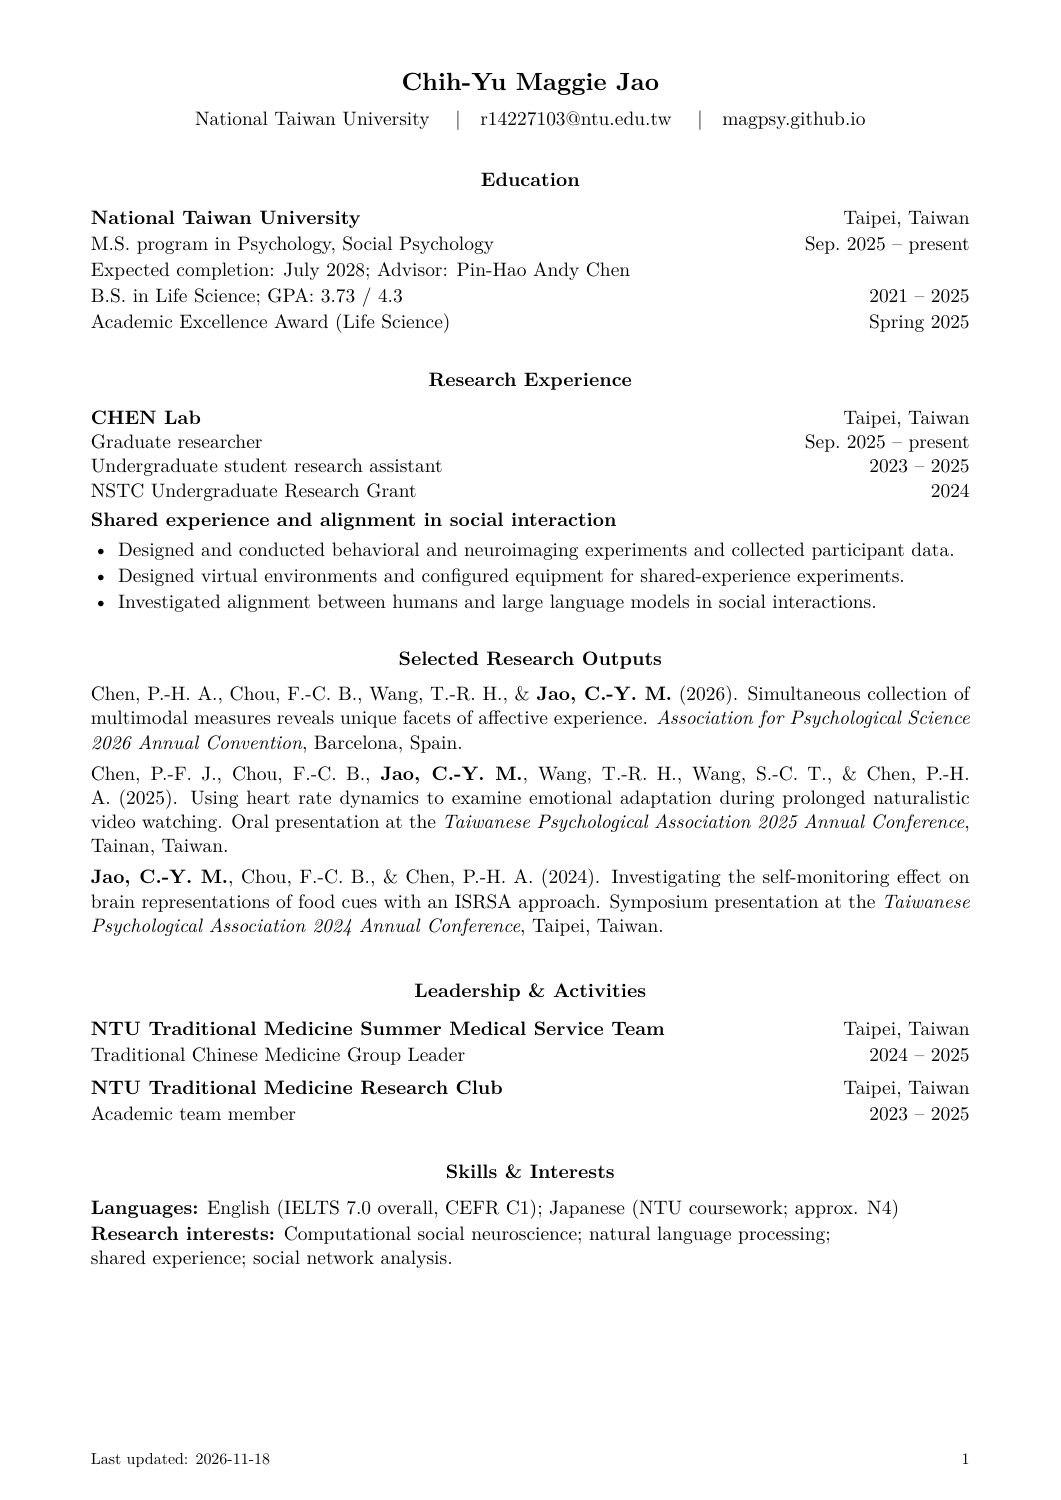
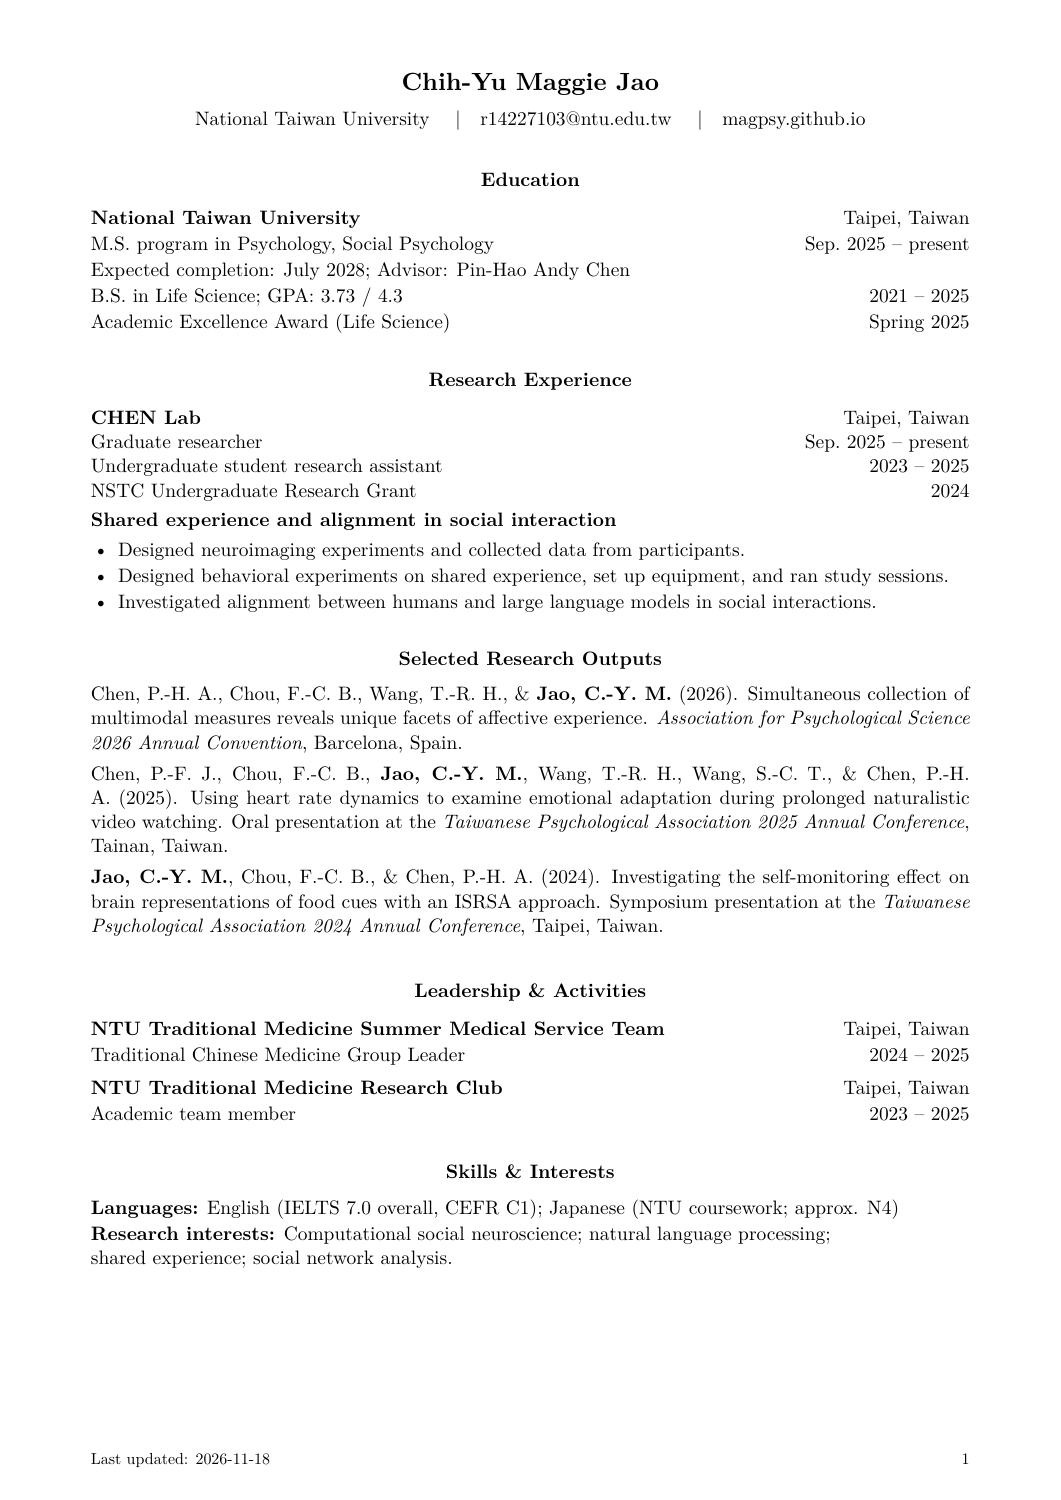
Clarify neuroimaging and behavioral research contributions

Changed region(s): [[0.1866, 0.368, 0.902, 0.3987]]

diff --git a/index.html b/index.html
@@ -20,12 +20,12 @@
   <header>
     <div class="heading">
       <h1>Chih-Yu Maggie Jao · Curriculum Vitae</h1>
-      <a href="CV-OnePage.pdf?v=f0cf153ee8d7">Open / download one-page PDF</a>
+      <a href="CV-OnePage.pdf?v=acd95fb1bbe9">Open / download one-page PDF</a>
     </div>
   </header>
   <main aria-label="Curriculum vitae of Chih-Yu Maggie Jao, one page">
-    <a href="CV-OnePage.pdf?v=f0cf153ee8d7" aria-label="Open one-page CV PDF">
-      <img src="CV-OnePage-page-1.png?v=f0cf153ee8d7" alt="CV: education, research experience, selected research outputs, leadership, languages and interests" width="1061" height="1500">
+    <a href="CV-OnePage.pdf?v=acd95fb1bbe9" aria-label="Open one-page CV PDF">
+      <img src="CV-OnePage-page-1.png?v=acd95fb1bbe9" alt="CV: education, research experience, selected research outputs, leadership, languages and interests" width="1061" height="1500">
     </a>
   </main>
 </body>
